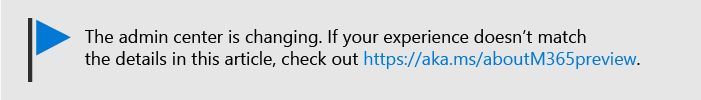
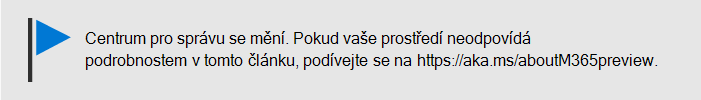
commit translated contents

Changed region(s): [[0.1198, 0.51, 0.9586, 0.69], [0.1198, 0.3, 0.8388, 0.48]]

diff --git a/microsoft-365/business/help-users-install-office.md b/microsoft-365/business/help-users-install-office.md
@@ -26,19 +26,19 @@ search.appverid:
 - BCS160
 - MET150
 ms.assetid: cbc6bfe5-565a-4fb8-95f0-b06e7b74ac46
-description: Pomozte uživatelům nainstalovat Office aplikace na Windows 10 zařízení a snadno Office na Windows 10 počítače z centra Microsoft 365 správy.
-ms.openlocfilehash: 74c17533995b74655be57524b77d9c508f703c50
-ms.sourcegitcommit: ff20f5b4e3268c7c98a84fb1cbe7db7151596b6d
+description: Pomozte uživatelům nainstalovat Office aplikace na Windows 10 zařízení a snadno Office na Windows 10 počítače z Centrum pro správu Microsoftu 365.
+ms.openlocfilehash: bfd0d9baba177bd68b4d3174eba7c5ffb3a38aa8c690c7b8314e5b298bdbdfc1
+ms.sourcegitcommit: a1b66e1e80c25d14d67a9b46c79ec7245d88e045
 ms.translationtype: MT
 ms.contentlocale: cs-CZ
-ms.lasthandoff: 05/06/2021
-ms.locfileid: "52245158"
+ms.lasthandoff: 08/05/2021
+ms.locfileid: "53820981"
 ---
 # <a name="help-your-users-install-office-on-windows-10-devices"></a>Pomozte uživatelům nainstalovat Office na Windows 10 zařízení
 
 [![Popis s informacemi o tom, jak se mění centrum pro správu. Další podrobnosti najdete na aka.ms/aboutM365preview.](../media/m365admincenterchanging.png)](/office365/admin/microsoft-365-admin-center-preview)
 
-V Centru pro správu Office můžete Windows 10 a snadno nainstalovat Microsoft 365 počítače.
+Můžete rychle a snadno nainstalovat Office na Windows 10 počítače z Centrum pro správu Microsoftu 365.
   
 Pokud se chcete dozvědět, jak to funguje s dříve nainstalovanými aplikacemi Office, napřed si přečtěte článek [Příprava instalace klienta Office](prepare-for-office-client-deployment.md).
 

diff --git a/microsoft-365/business/create-and-edit-autopilot-profiles.md b/microsoft-365/business/create-and-edit-autopilot-profiles.md
@@ -27,12 +27,12 @@ search.appverid:
 - MOE150
 ms.assetid: 5cf7139e-cfa1-4765-8aad-001af1c74faa
 description: Naučte se vytvořit profil AutoPilota a použít ho na zařízení, stejně jako upravit nebo odstranit profil nebo odebrat profil ze zařízení.
-ms.openlocfilehash: 414243da88fb6f39f8e6067d19d49ffe955f725f
-ms.sourcegitcommit: 53acc851abf68e2272e75df0856c0e16b0c7e48d
+ms.openlocfilehash: d2a3038346b7879006dc2eb50ebe2e70cc6fae92c020a38465cec9d468c638b2
+ms.sourcegitcommit: a1b66e1e80c25d14d67a9b46c79ec7245d88e045
 ms.translationtype: MT
 ms.contentlocale: cs-CZ
-ms.lasthandoff: 04/02/2021
-ms.locfileid: "51580248"
+ms.lasthandoff: 08/05/2021
+ms.locfileid: "53797192"
 ---
 # <a name="create-and-edit-autopilot-profiles"></a>Vytvoření a úpravy profilů AutoPilota
 
@@ -40,7 +40,7 @@ ms.locfileid: "51580248"
 
 Profil se používá pro zařízení nebo skupinu zařízení.
   
-1. V Centru pro správu Microsoftu 365 zvolte **Zařízení** \> **AutoPilota**.
+1. V Centrum pro správu Microsoftu 365 zvolte Zařízení  \> **AutoPilot**.
   
 2. Na stránce **AutoPilot** zvolte kartu **Profily** \> **– vytvořit profil**.
     
